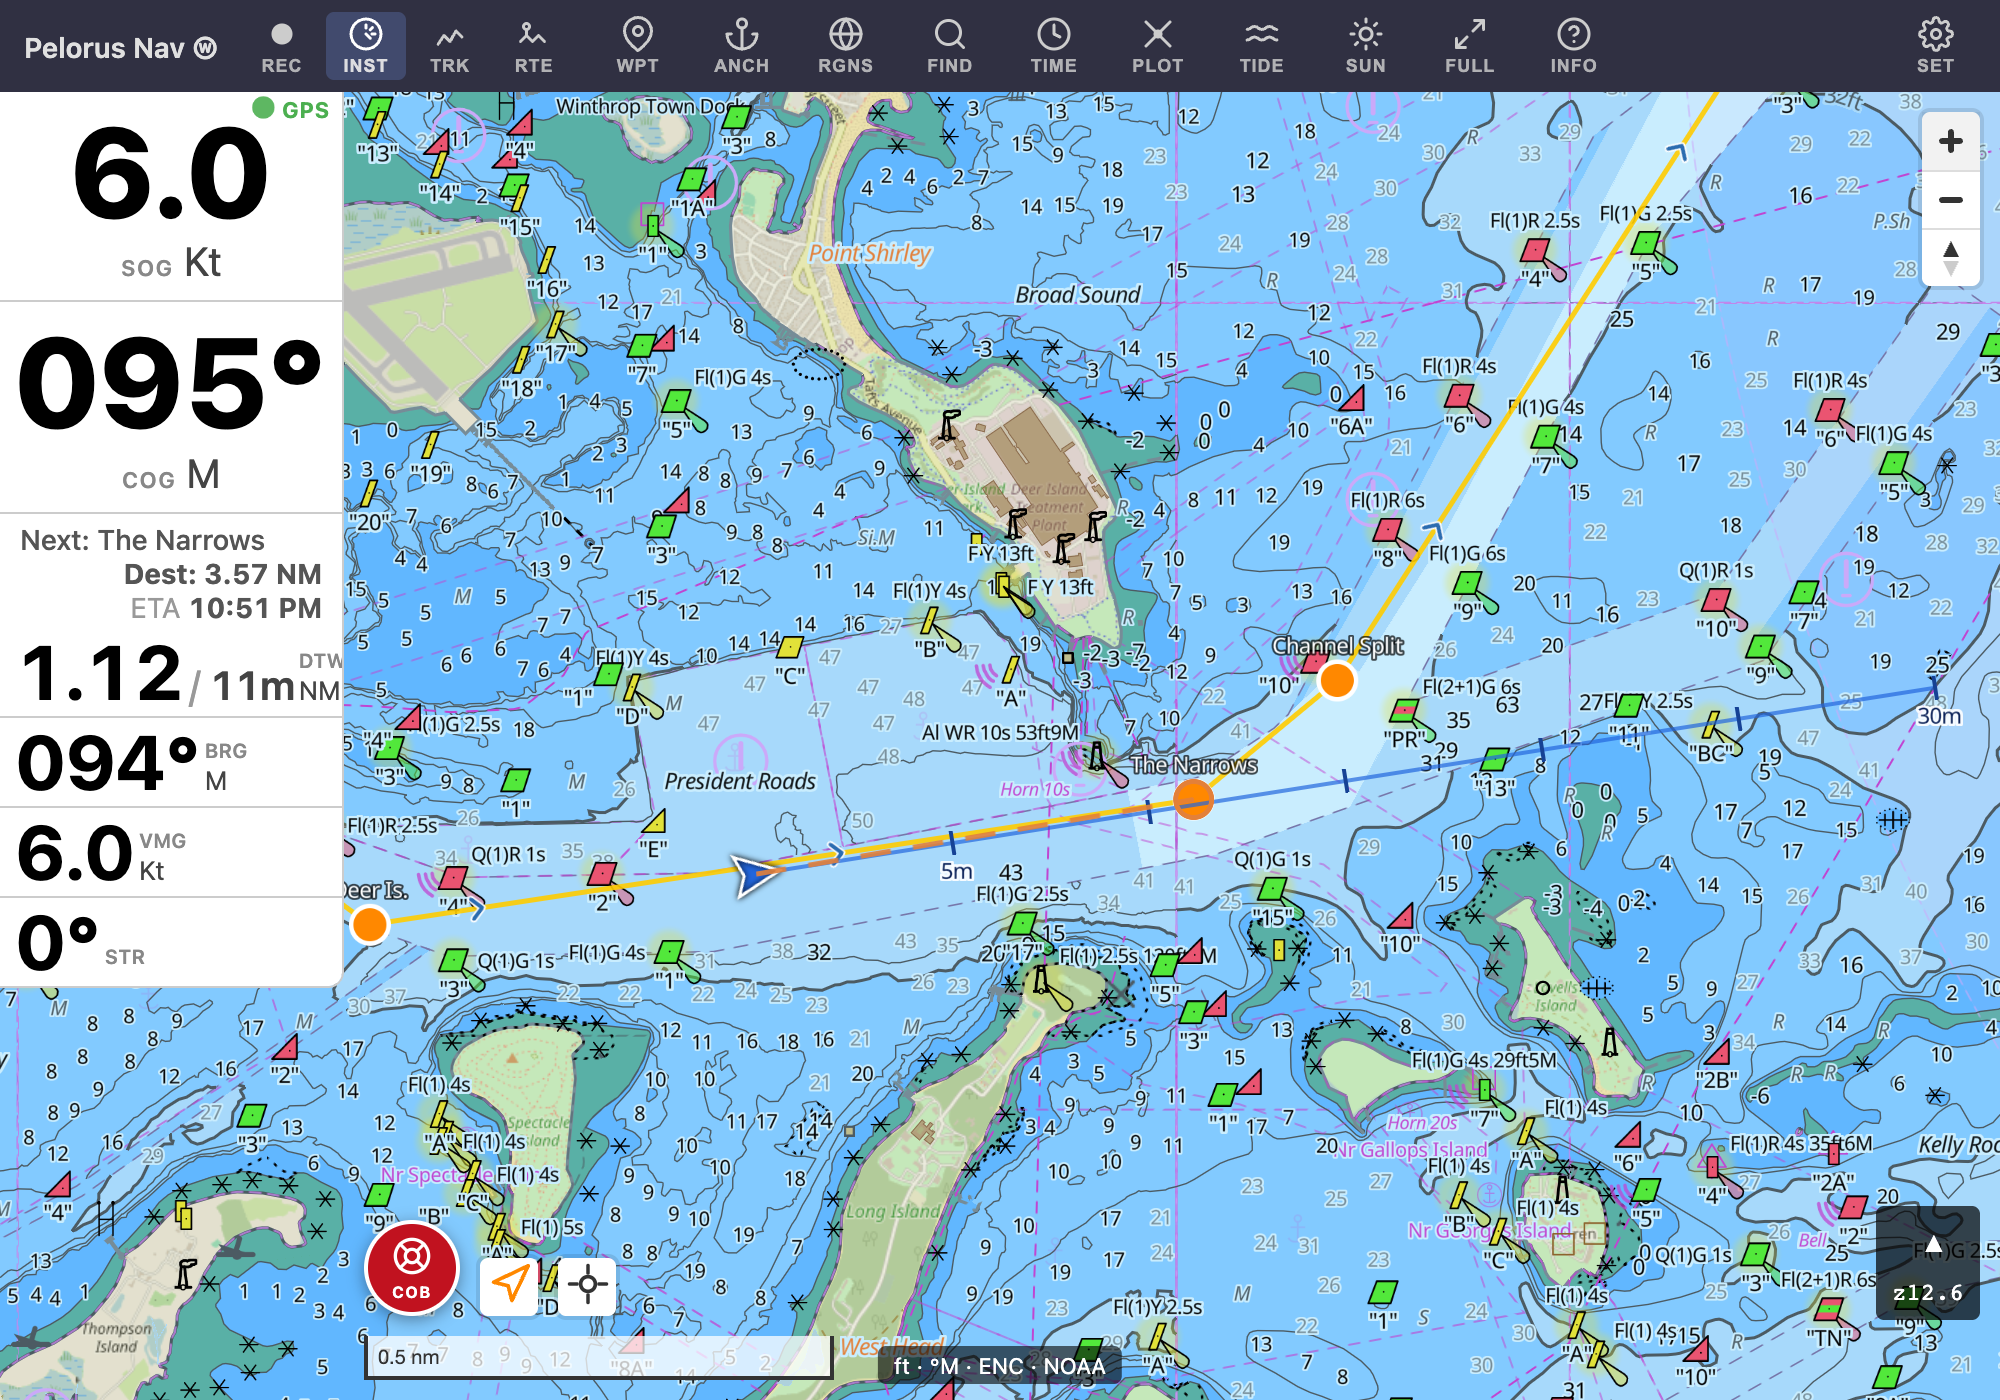
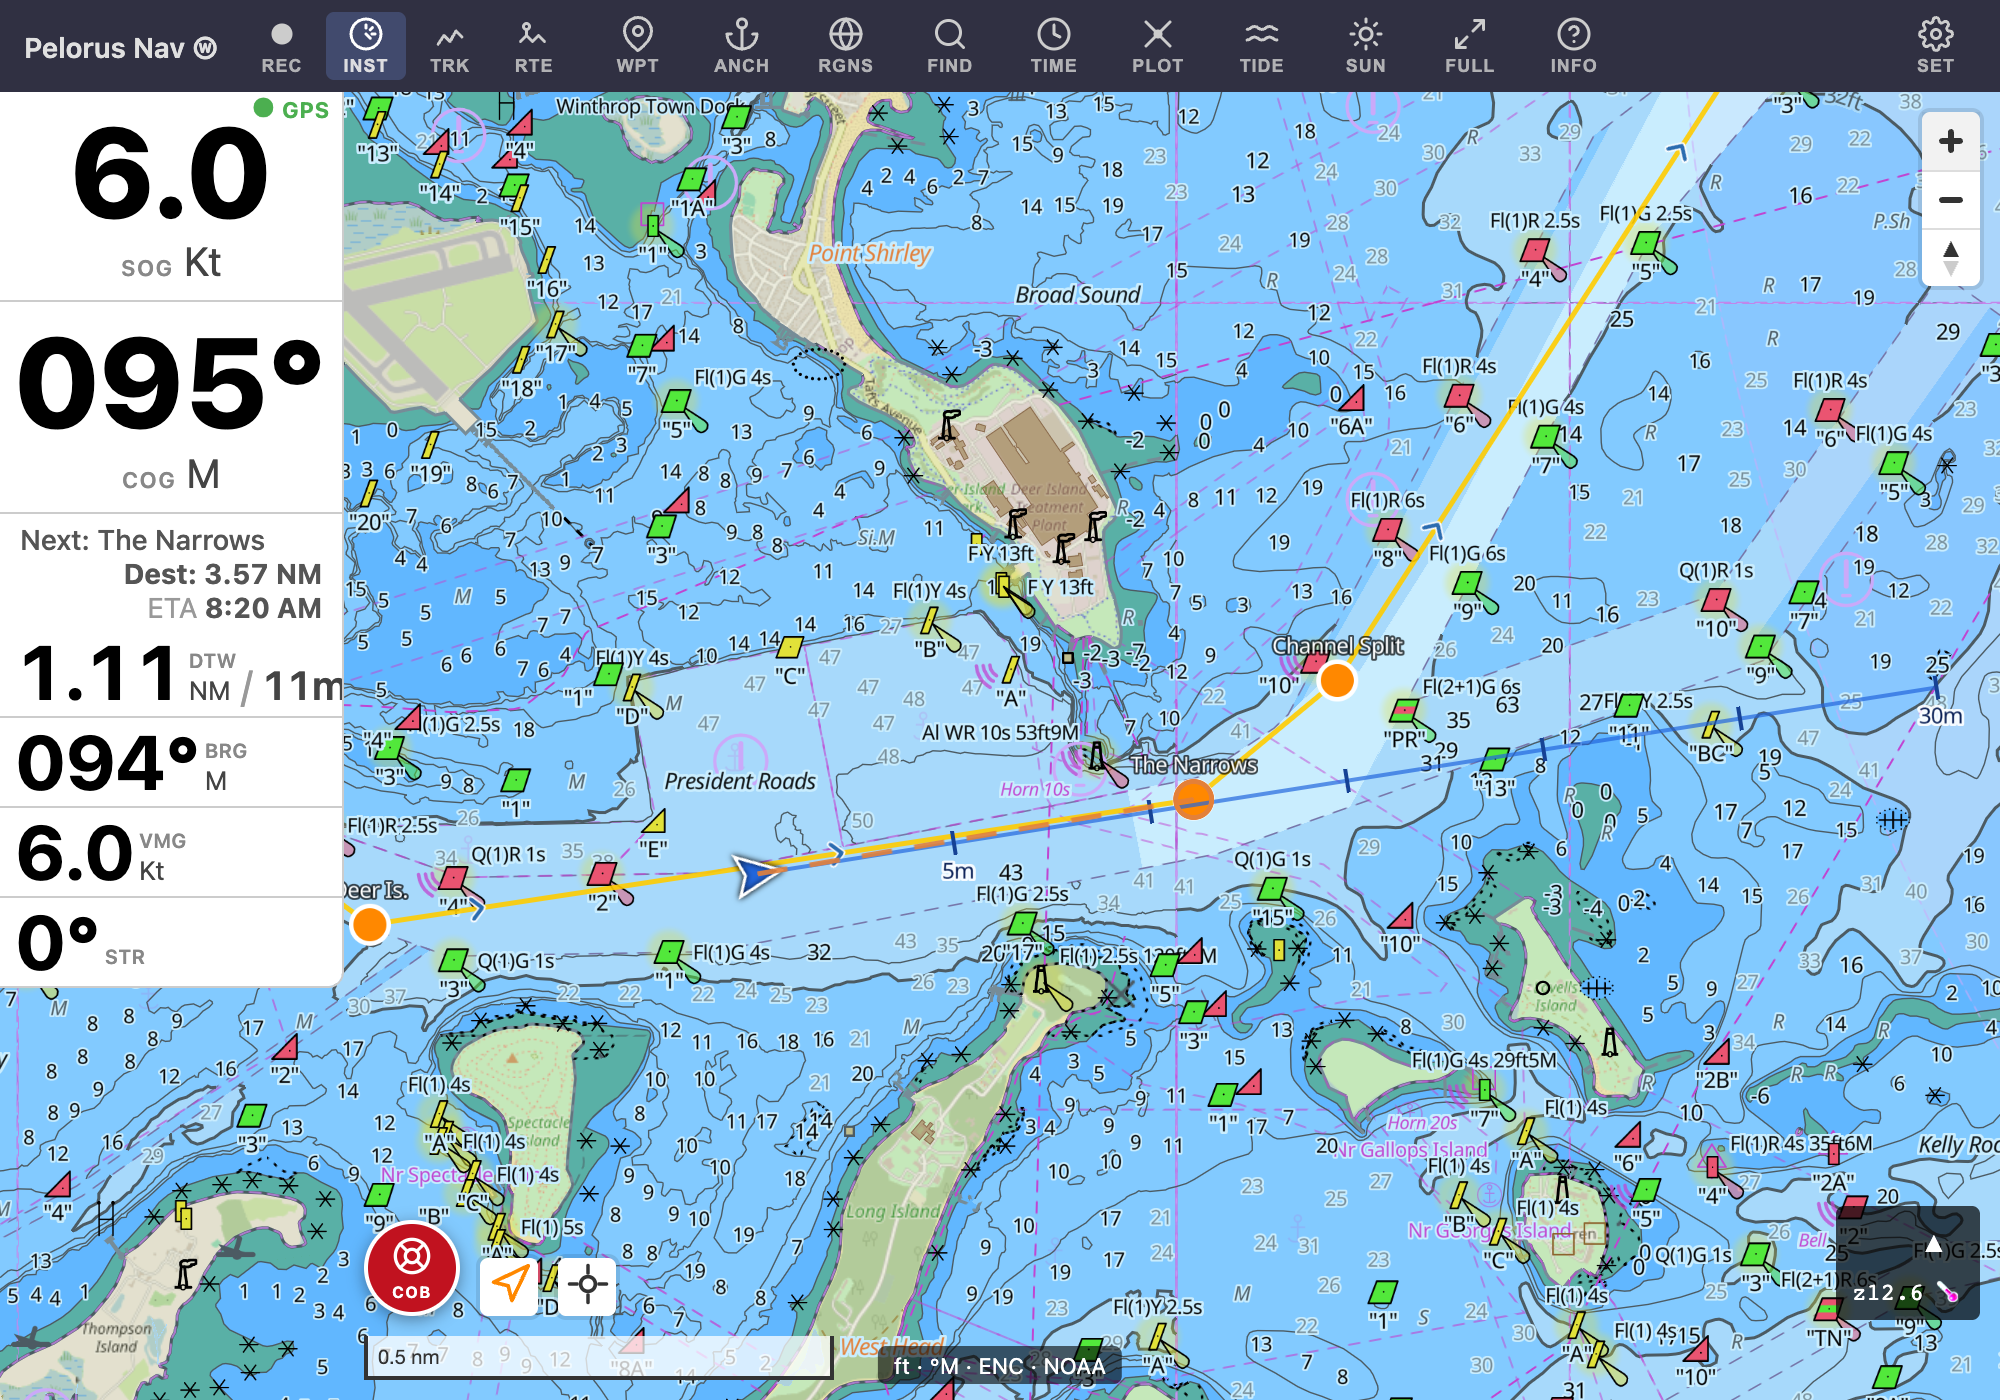
fix(ui): put the DTW unit before the time to go
The nav cell's baseline read "3.36 / 9m NM", as if the unit belonged to
the time. Order the row digits, label-over-unit, then time, so it reads
"3.36 NM / 9m". Guide screenshot regenerated.

Claude-Session: https://claude.ai/code/session_01HDFZVhDtuheXzko3u3n2hZ

diff --git a/src/ui/InstrumentHUD.ts b/src/ui/InstrumentHUD.ts
@@ -380,7 +380,8 @@ function buildCell(
   meta.className = "instrument-meta";
   meta.append(label, unitEl);
 
-  valueRow.append(valuEl, secondaryEl, meta);
+  // Baseline reads "3.36 NM / 9m": digits, label-over-unit, then the time.
+  valueRow.append(valuEl, meta, secondaryEl);
   cell.append(valueRow);
   return { cell, valuEl, unitEl, secondaryEl };
 }
